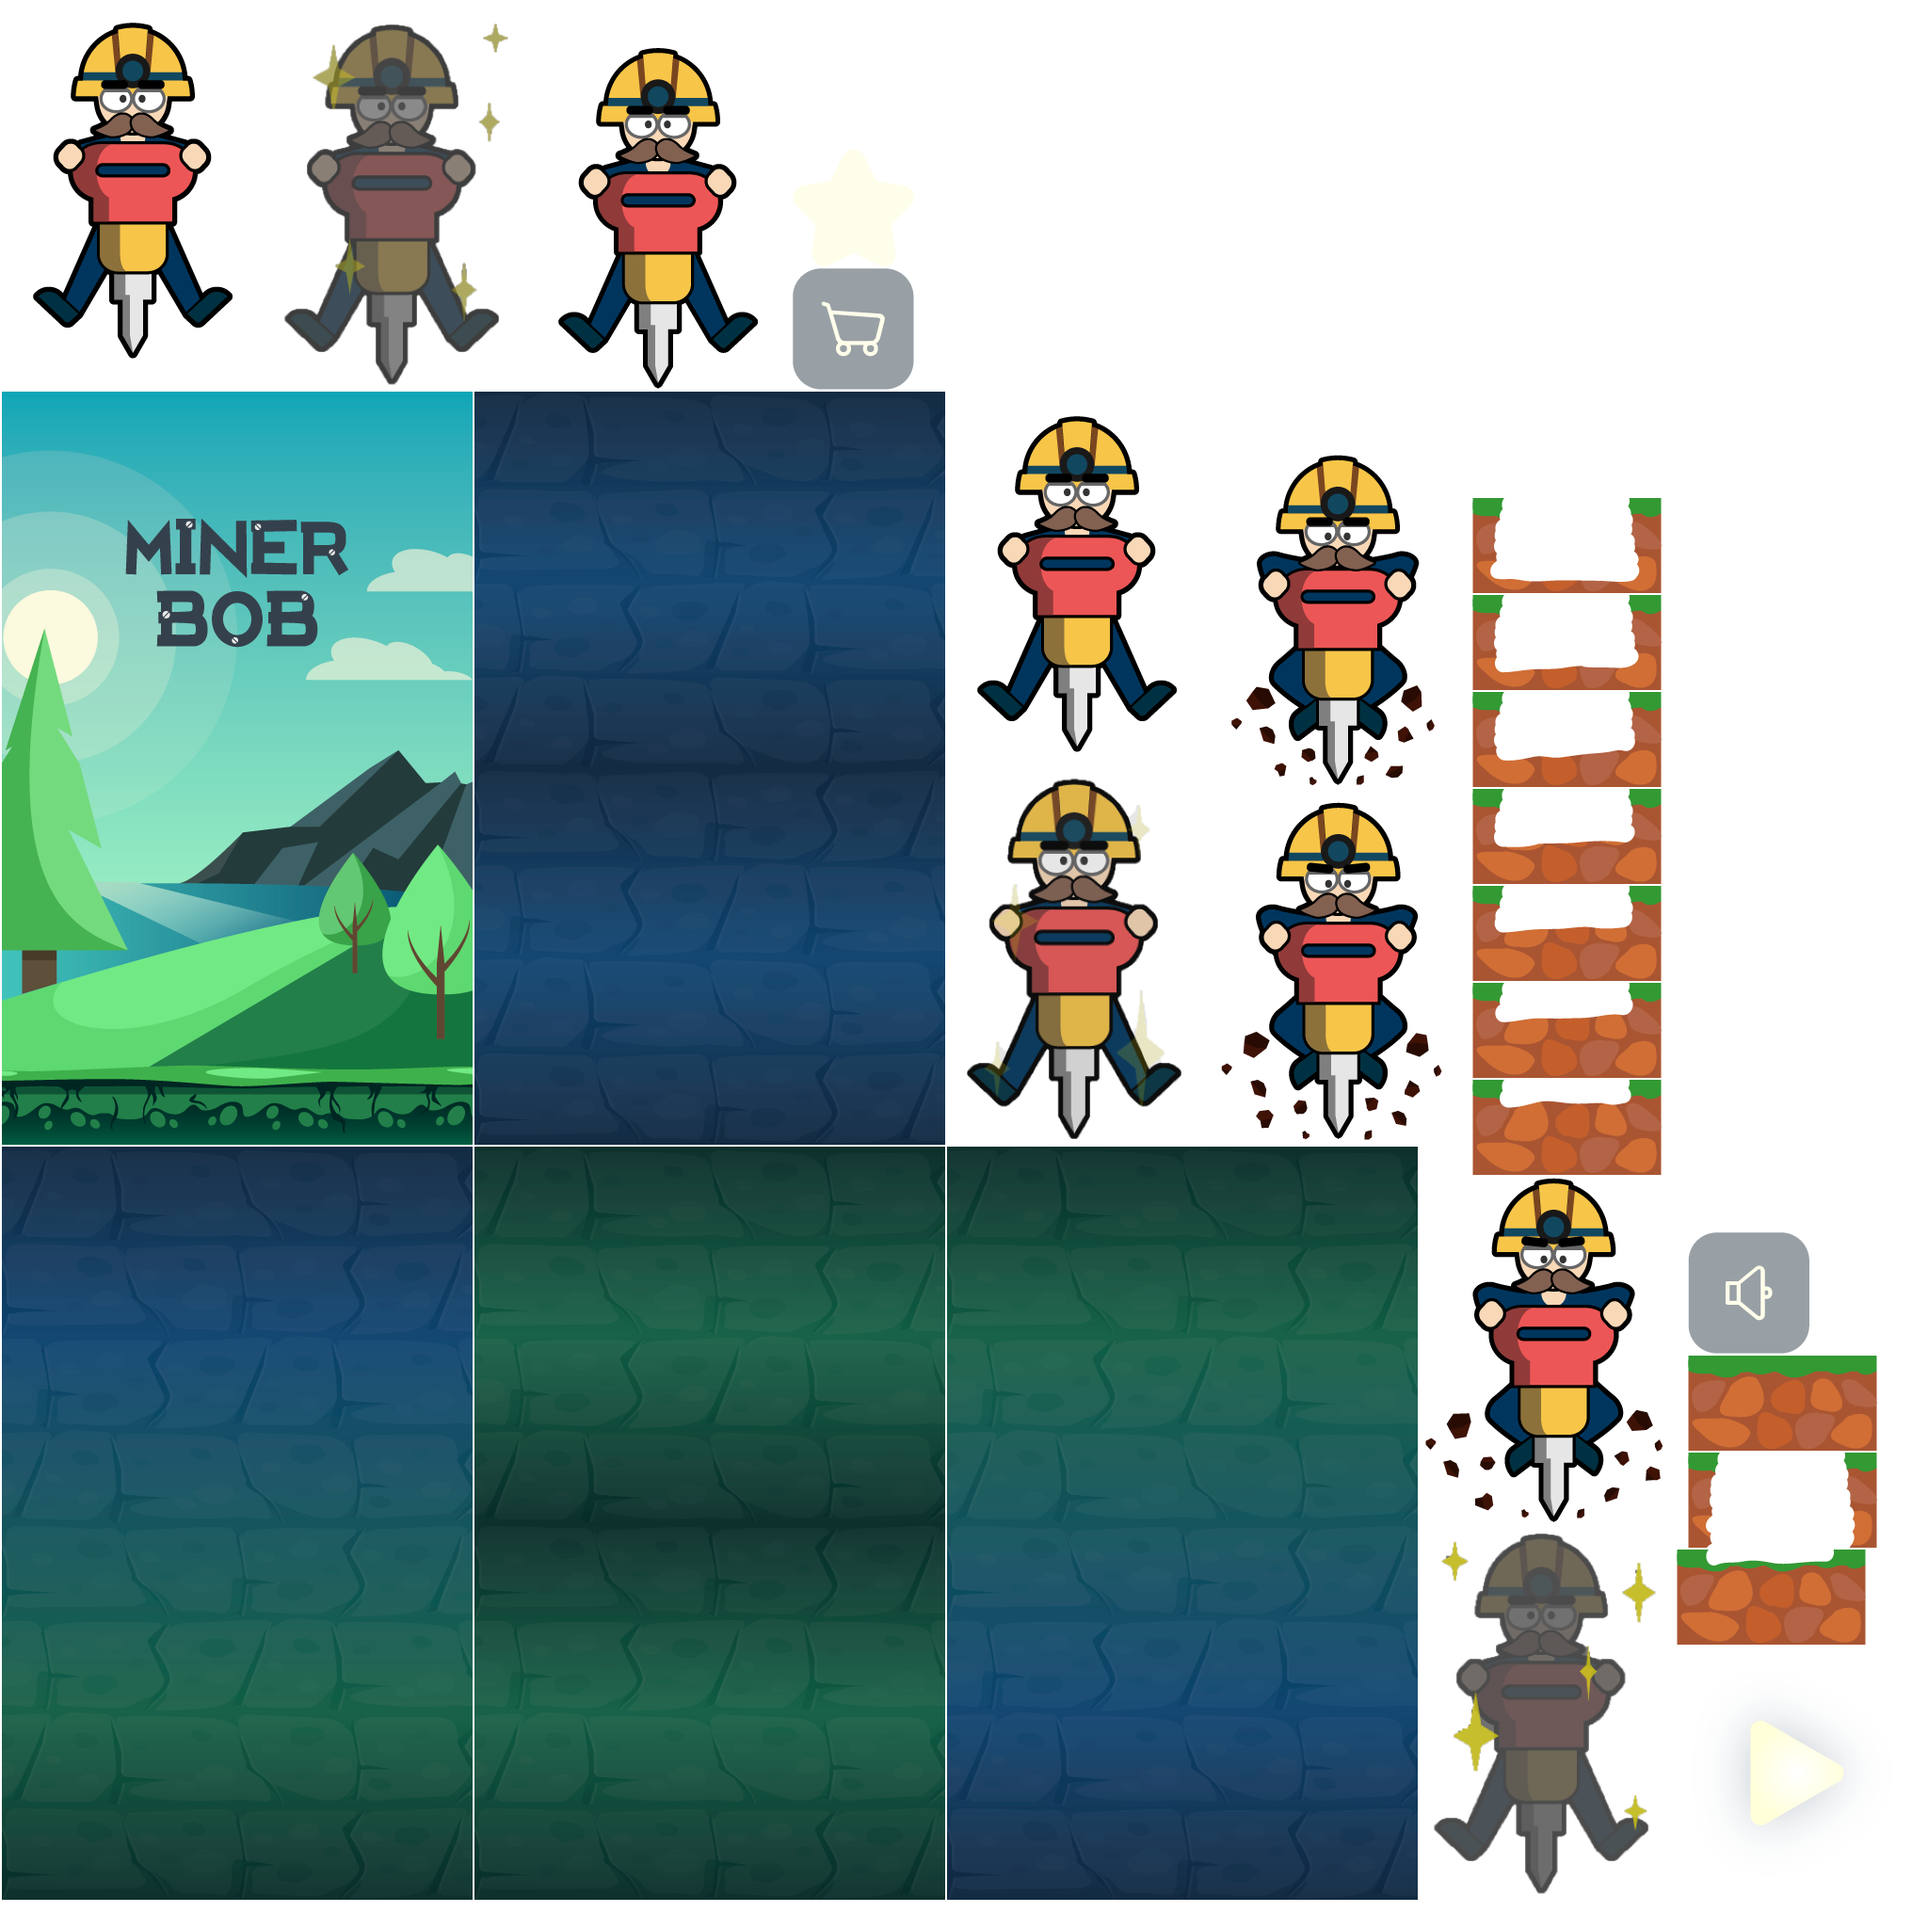
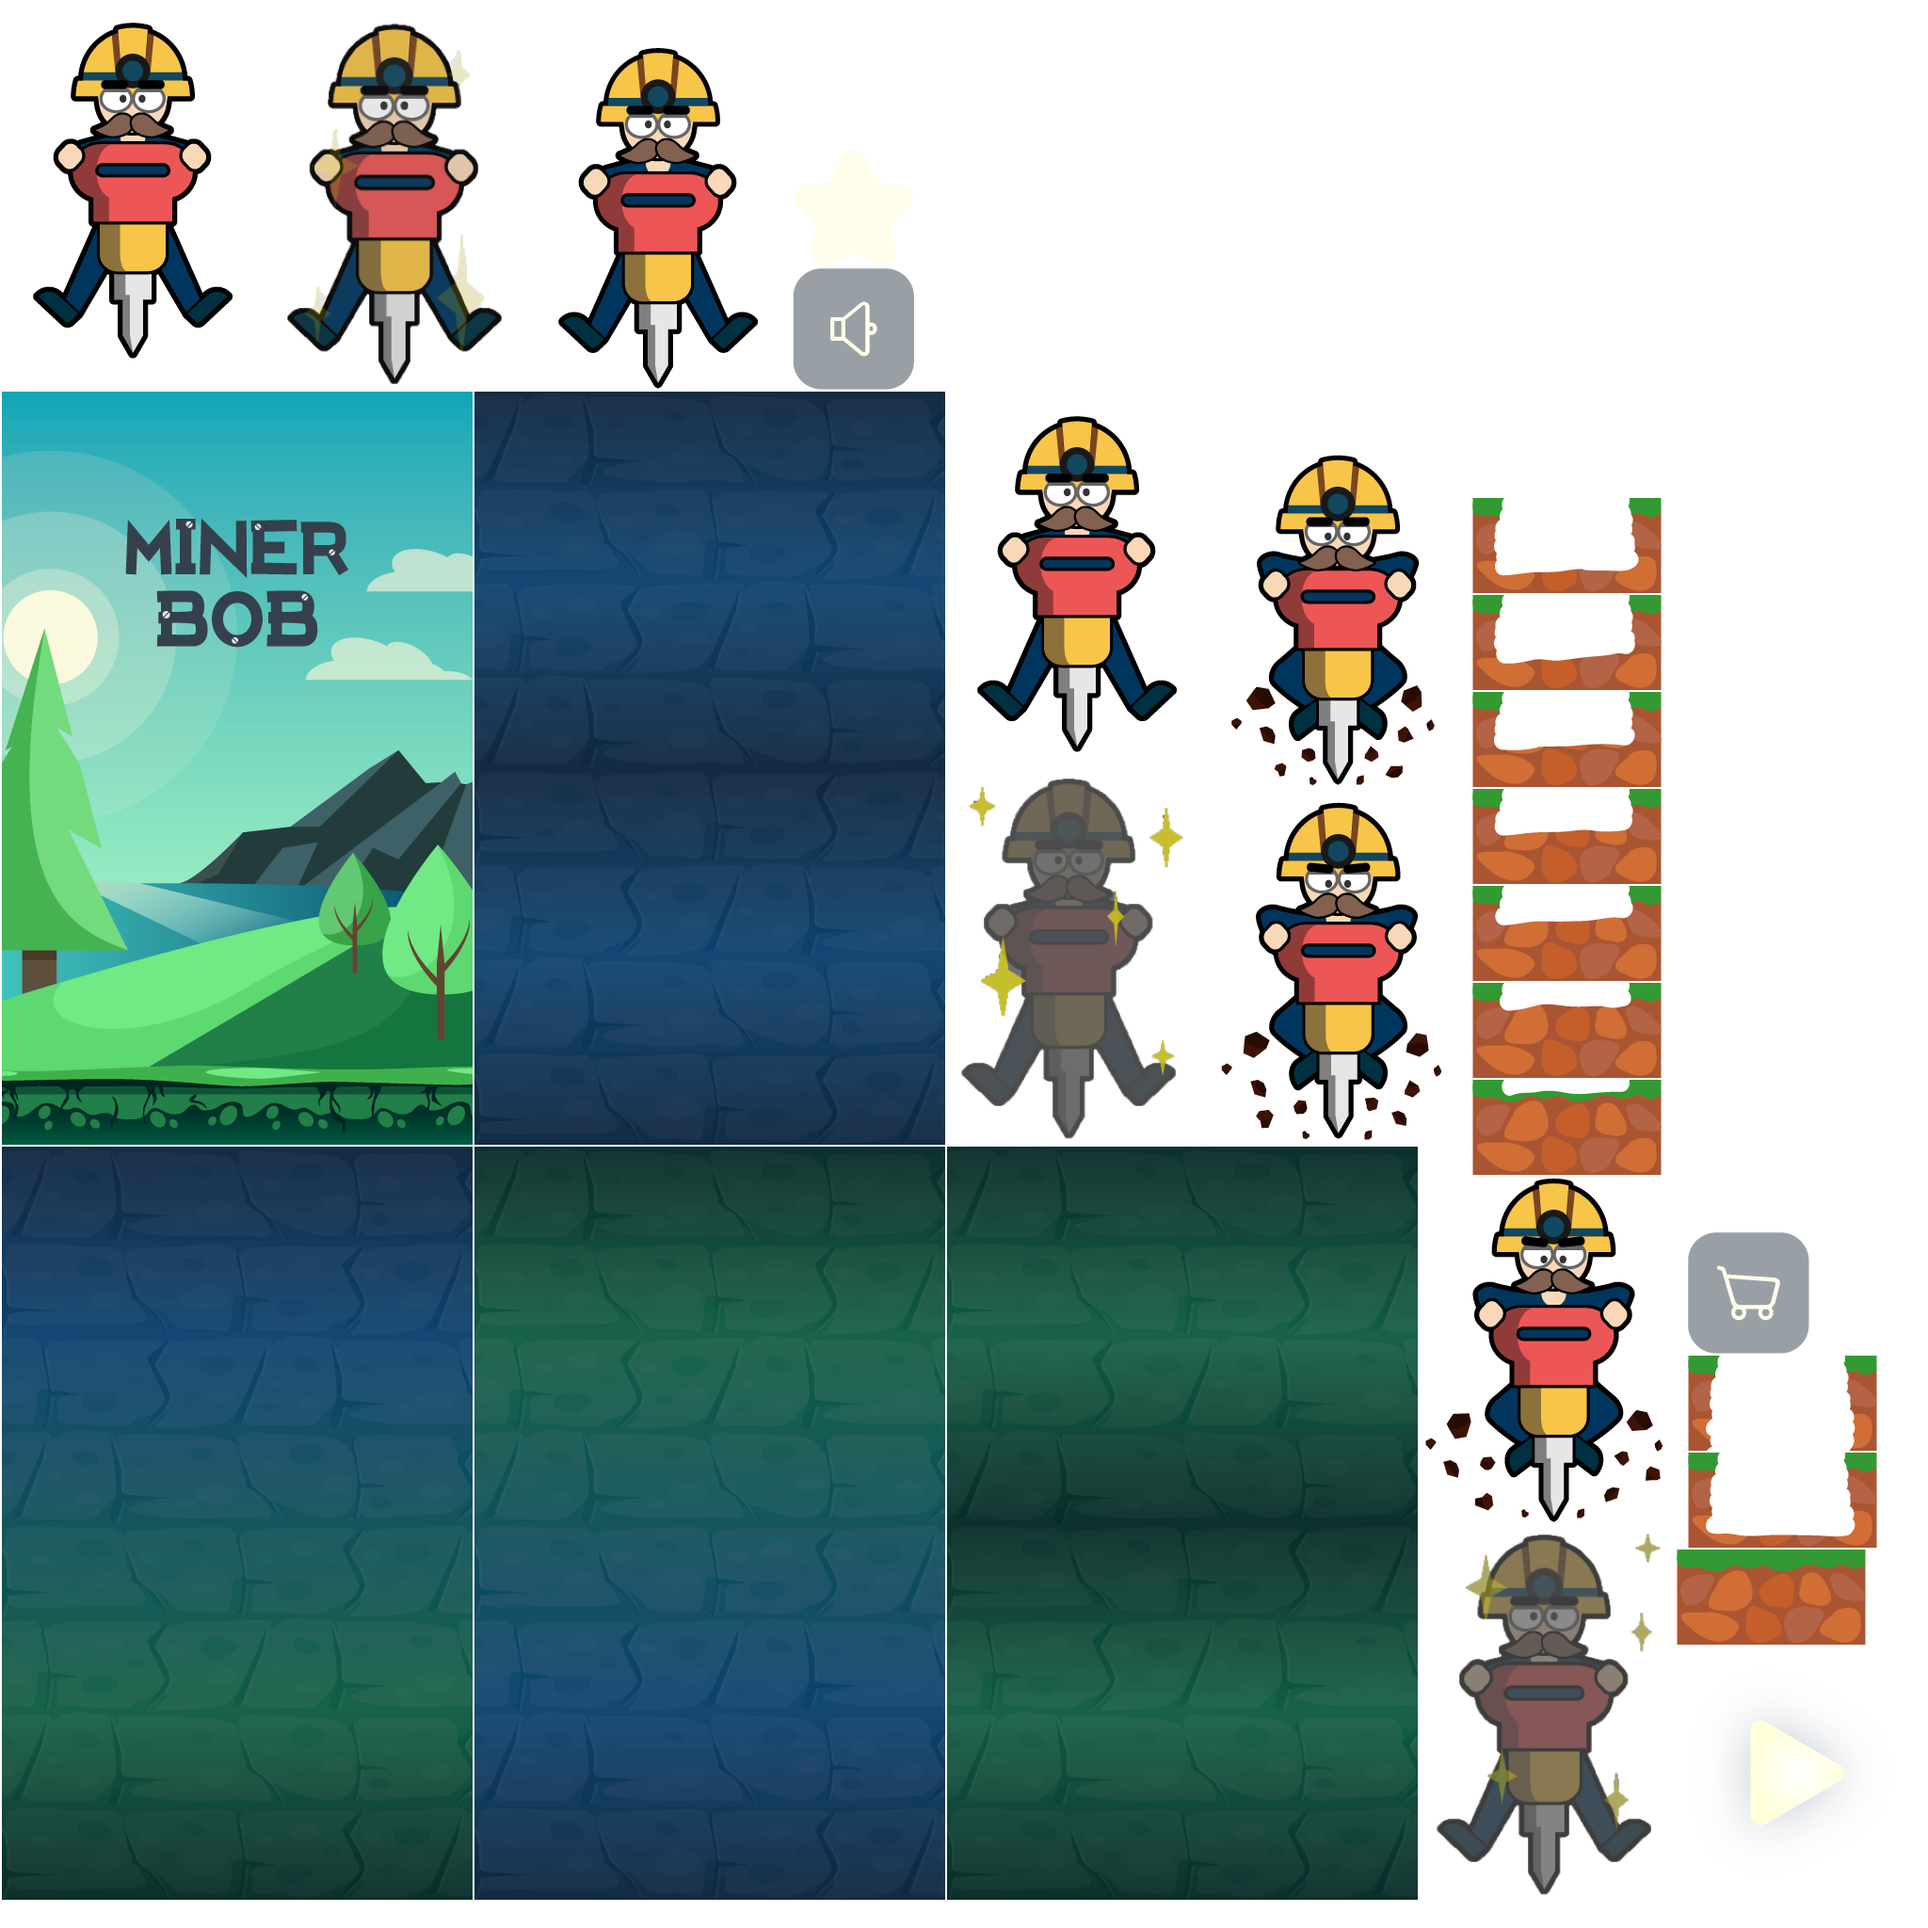
Реализована смена фонов.

diff --git a/core/src/com/mygdx/minerbob/gameobjects/Field.java b/core/src/com/mygdx/minerbob/gameobjects/Field.java
@@ -1,44 +1,47 @@
 package com.mygdx.minerbob.gameobjects;
 
 import com.badlogic.gdx.graphics.g2d.SpriteBatch;
+import com.badlogic.gdx.graphics.g2d.TextureRegion;
 import com.badlogic.gdx.math.Vector2;
 import com.mygdx.minerbob.gameworld.GameWorld;
-import com.mygdx.minerbob.helpers.AssetLoader;
-import com.mygdx.minerbob.screen.GameScreen;
 
 /**
  * Created by Алексей on 16.09.2017.
  */
 
 public class Field {
-    private Vector2 positionFirst, positionSecond, velocity, acceleration;
+    private Vector2 positionFirst, positionSecond, velocity, tempVector;
 
     private float height;
     private boolean isFirst;
     private GameWorld gameWorld;
     private float scale;
     private float width;
+    private boolean isGreenFirst, isGreenSecond;
+    private TextureRegion firstTexture, secondTexture;
 
 
     public Field(GameWorld gameWorld) {
         this.gameWorld = gameWorld;
         height = this.gameWorld.HEIGHT;
         width = this.gameWorld.WIDTH;
-        scale = width / height;
-        if (scale > 500 / 800)
-            scale -= 500 / 800;
-        else if (scale < 500 / 800)
-            scale = 500 / 800 - scale;
-        width += width * scale;
 
+        tempVector = new Vector2(0, 0);
+        positionFirst = new Vector2(0, 0);
+        positionSecond = new Vector2(0, height);
+        velocity = new Vector2(0, -1);
         restart();
     }
 
     public void restart() {
         isFirst = true;
-        positionFirst = new Vector2(0, 0);
-        positionSecond = new Vector2(0, height);
-        velocity = new Vector2(0, -1);
+        positionFirst.set(0, 0);
+        positionSecond.set(0, height);
+        velocity.set(0, -1);
+        secondTexture = gameWorld.assetLoader.bgGreen;
+        firstTexture = gameWorld.assetLoader.bgGreenToBlue;
+        isGreenFirst = true;
+        isGreenSecond = true;
     }
 
     public void setVelocity(float x, float y) {
@@ -46,30 +49,49 @@ public class Field {
     }
 
     public void update(float delta) {
-        positionFirst.add(velocity.cpy().scl(delta));
-        positionSecond.add(velocity.cpy().scl(delta));
+        tempVector.set(velocity.x, velocity.y);
+        positionFirst.add(tempVector.scl(delta));
+        tempVector.set(velocity.x, velocity.y);
+        positionSecond.add(tempVector.scl(delta));
 
         if(isFirst && positionFirst.y + height <= 0) {
             gameWorld.isStart = false;
             isFirst = false;
         }
 
-        if (positionFirst.y + height <= 0)
+        if (positionFirst.y + height <= 0) {
             positionFirst.y = positionSecond.y + height;
+            if (isGreenFirst) {
+                firstTexture = gameWorld.assetLoader.bgGreenToBlue;
+                isGreenFirst = false;
+            } else {
+                firstTexture = gameWorld.assetLoader.bgBlueToGreen;
+                isGreenFirst = true;
+            }
+        }
 
-        if (positionSecond.y + height <= 0)
+        if (positionSecond.y + height <= 0) {
             positionSecond.y = positionFirst.y + height;
+            if (isGreenSecond) {
+                secondTexture = gameWorld.assetLoader.bgBlue;
+                isGreenSecond = false;
+            }
+            else {
+                secondTexture = gameWorld.assetLoader.bgGreen;
+                isGreenSecond = true;
+            }
+        }
     }
 
     public void draw(SpriteBatch batcher) {
         batcher.begin();
 
         if (isFirst)
-            batcher.draw(gameWorld.assetLoader.startField, positionFirst.x, positionFirst.y, gameWorld.WIDTH, height);
+            batcher.draw(gameWorld.assetLoader.startField, positionFirst.x, positionFirst.y, width, height);
         else
-            batcher.draw(gameWorld.assetLoader.bgFirst, positionFirst.x, positionFirst.y, gameWorld.WIDTH, height);
+            batcher.draw(firstTexture, positionFirst.x, positionFirst.y, width, height);
 
-        batcher.draw(gameWorld.assetLoader.bgSecond, positionSecond.x, positionSecond.y, gameWorld.WIDTH, height);
+        batcher.draw(secondTexture, positionSecond.x, positionSecond.y, width, height);
         batcher.end();
     }
 }

diff --git a/core/src/com/mygdx/minerbob/helpers/AssetLoader.java b/core/src/com/mygdx/minerbob/helpers/AssetLoader.java
@@ -25,8 +25,8 @@ public class AssetLoader {
 
     public TextureRegion actorKick1, actorKick2, actorKick3, actorFall;
     public TextureRegion startField;
-    public TextureRegion bgFirst;
-    public TextureRegion bgSecond;
+    public TextureRegion bgBlue, bgBlueToGreen;
+    public TextureRegion bgGreen, bgGreenToBlue;
     public TextureRegion currentTexture;
     public TextureRegion startScreen;
     public TextureRegion splashScreen;
@@ -109,10 +109,14 @@ public class AssetLoader {
         textures = new Array<ActorTexture>();
         initButtons();
 
-        bgFirst = atlasTexture.findRegion("Miner-Bob2");
-        bgFirst.flip(false, true);
-        bgSecond = atlasTexture.findRegion("Miner-Bob3");
-        bgSecond.flip(false, true);
+        bgBlue = atlasTexture.findRegion("Miner-Bob2");
+        bgBlue.flip(false, true);
+        bgBlueToGreen = atlasTexture.findRegion("Miner-Bob4");
+        bgBlueToGreen.flip(false, true);
+        bgGreen = atlasTexture.findRegion("Miner-Bob3");
+        bgGreen.flip(false, true);
+        bgGreenToBlue = atlasTexture.findRegion("Miner-Bob5");
+        bgGreenToBlue.flip(false, true);
 
         startField = atlasTexture.findRegion("Miner-Bob1");
         startField.flip(false, true);
